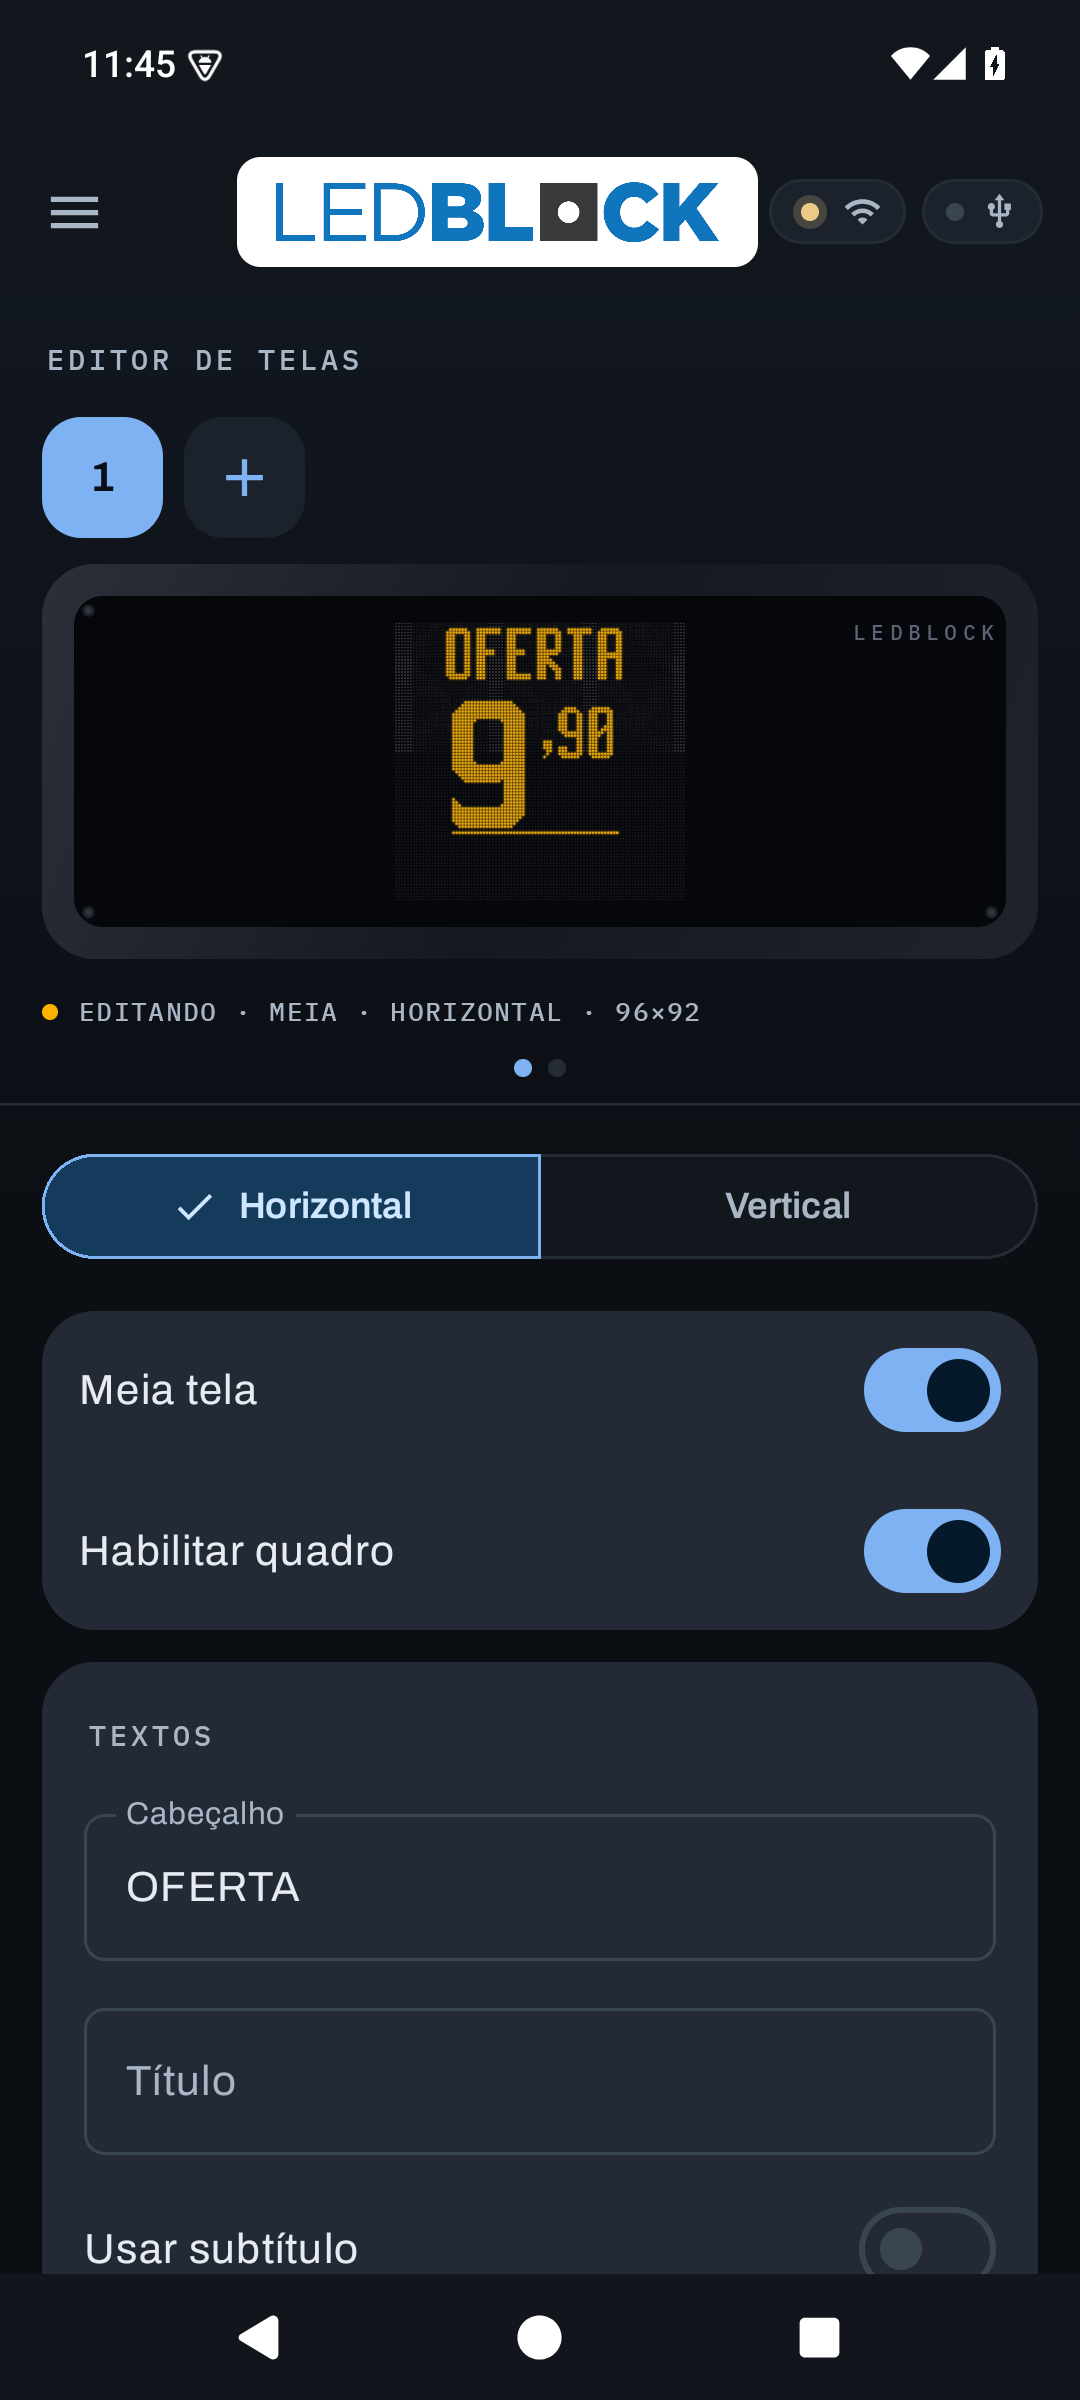
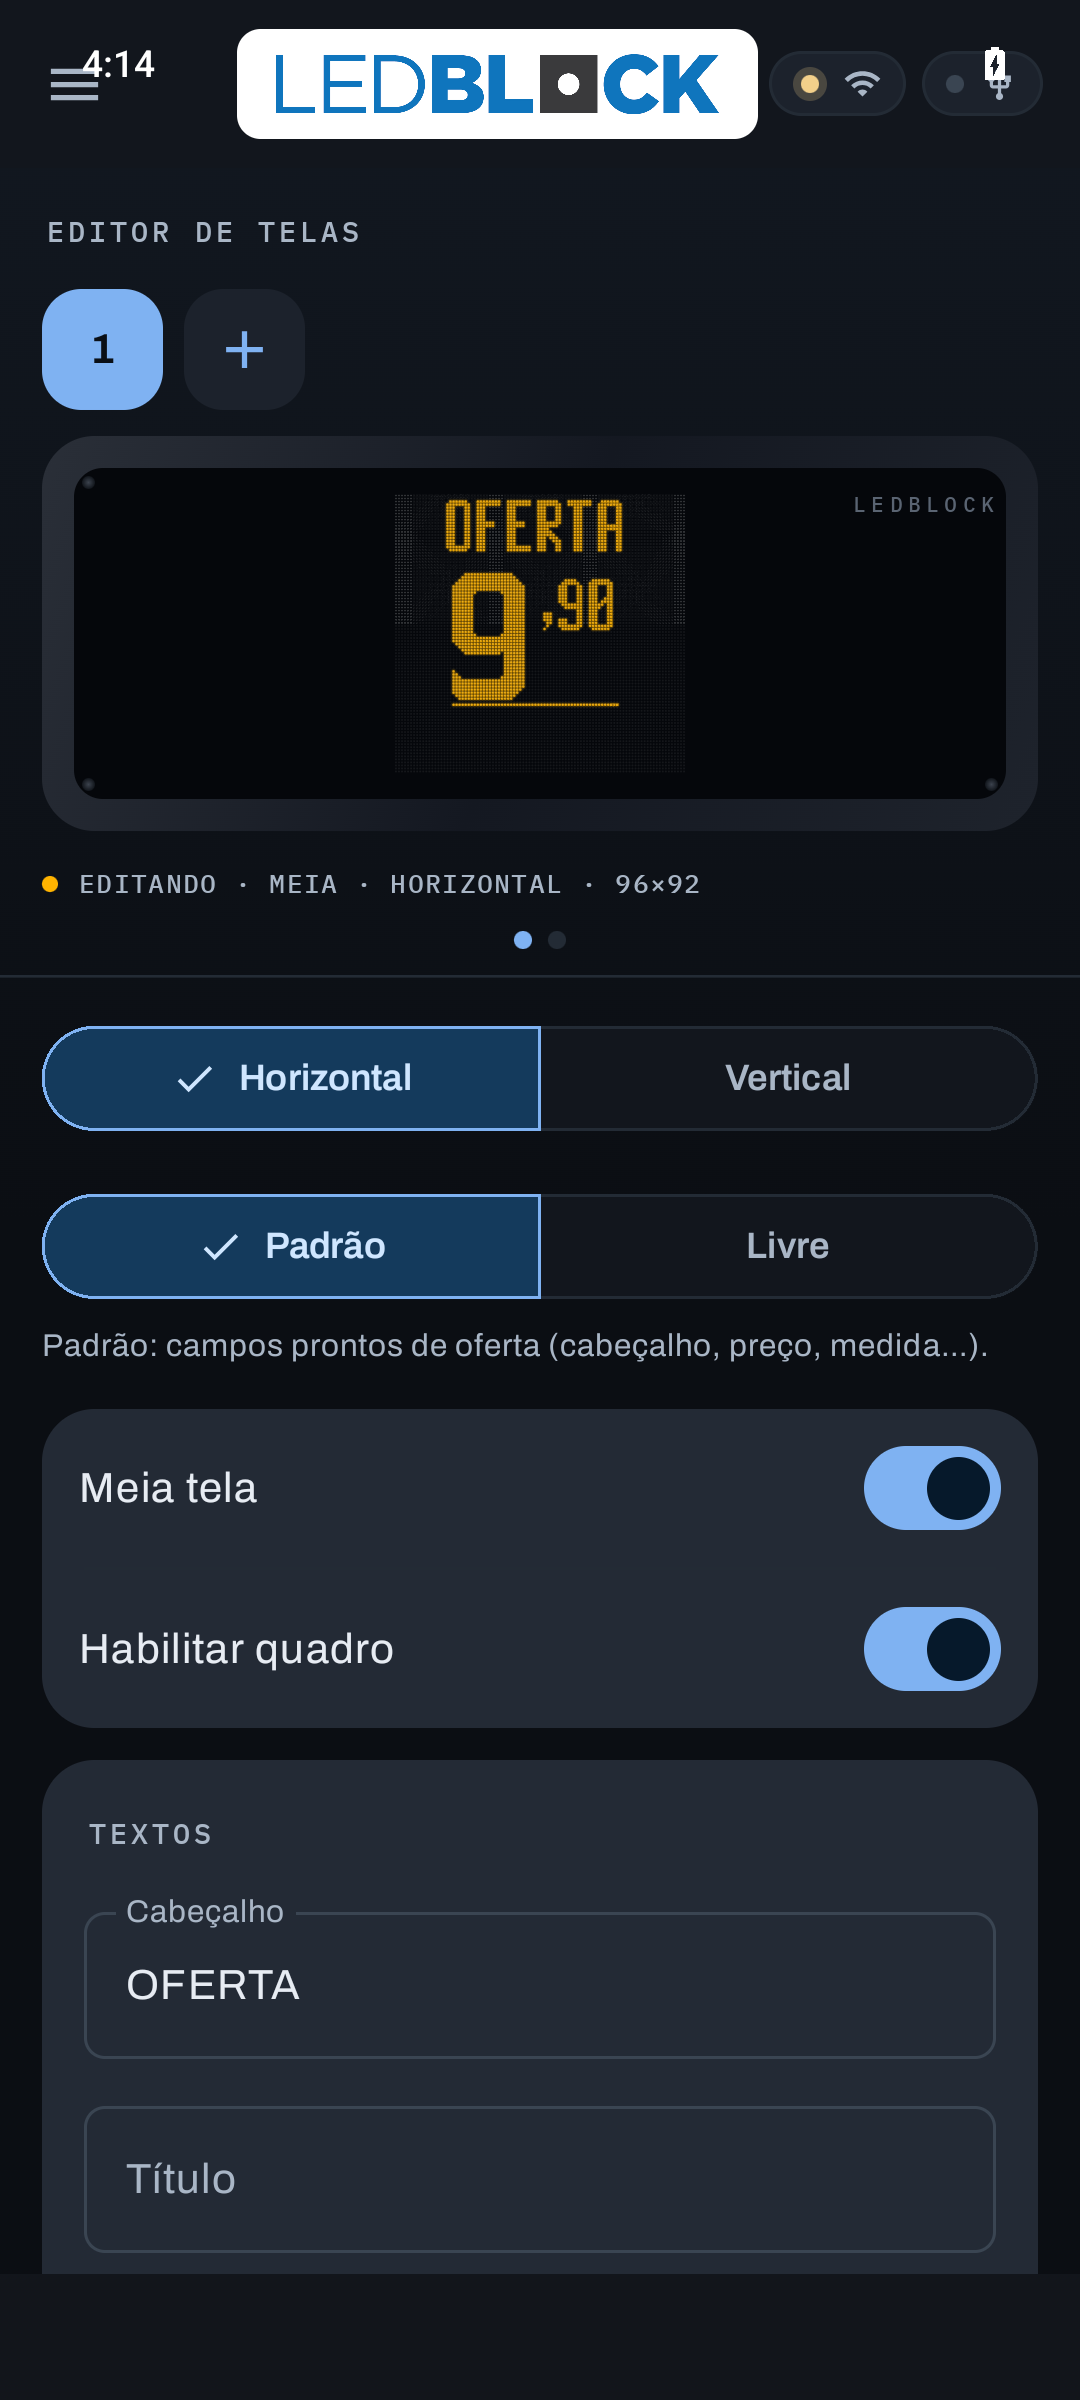
feat: editor com modo Padrao/Livre e 'Complementos' fundido
Dois itens do retorno do cliente. APK v0.32.0 (versionCode 34).

- Modo Padrao/Livre: seletor no topo do conteudo troca a tela entre Oferta
  (Padrao) e Mensagem (Livre, texto solto com posicao/fonte). EditorViewModel.setMode
  converte o tipo preservando o nome.
- 'Complementos' fundido: Medida vai pro cartao Preco (e a unidade do preco);
  Auxiliar+Rodape viram um cartao 'Rodape' sempre visivel. Some o colapsavel.

diff --git a/app/src/main/java/br/com/painelofertas/ui/screens/EditarScreen.kt b/app/src/main/java/br/com/painelofertas/ui/screens/EditarScreen.kt
@@ -227,6 +227,20 @@ fun EditarScreen() {
         ) {
             SegChoice(listOf("Horizontal", "Vertical"), if (vm.portrait) 1 else 0, Modifier.fillMaxWidth()) { vm.portrait = it == 1 }
 
+            // Modo de composição: Padrão (oferta pronta) ou Livre (texto solto).
+            if (cur != null && cur !is FrameDraft.Raw) {
+                val livre = cur is FrameDraft.Msg
+                Column(verticalArrangement = Arrangement.spacedBy(6.dp)) {
+                    SegChoice(listOf("Padrão", "Livre"), if (livre) 1 else 0, Modifier.fillMaxWidth()) { vm.setMode(it == 1) }
+                    Text(
+                        if (livre) "Livre: escreva o texto onde quiser — posição e fonte por linha."
+                        else "Padrão: campos prontos de oferta (cabeçalho, preço, medida…).",
+                        style = MaterialTheme.typography.bodySmall,
+                        color = MaterialTheme.colorScheme.onSurfaceVariant,
+                    )
+                }
+            }
+
             when (val d = cur) {
                 is FrameDraft.Msg -> MsgForm(d) { vm.replaceSel(it) }
                 is FrameDraft.Ofe -> OfeForm(d) { vm.replaceSel(it) }
@@ -662,7 +676,6 @@ private fun LineCard(linha: LineDraft, onChange: (LineDraft) -> Unit, onRemove: 
 private fun OfeForm(draft: FrameDraft.Ofe, onChange: (FrameDraft.Ofe) -> Unit) {
     val s = draft.spec
     fun set(ns: OfertaSpec) = onChange(draft.copy(spec = ns))
-    var maisCampos by remember { mutableStateOf(s.medida.isNotBlank() || s.auxiliar.isNotBlank() || s.rodape.isNotBlank()) }
 
     Column(verticalArrangement = Arrangement.spacedBy(12.dp)) {
 
@@ -722,30 +735,17 @@ private fun OfeForm(draft: FrameDraft.Ofe, onChange: (FrameDraft.Ofe) -> Unit) {
                     FilterChip(s.centavos3Casas, { set(s.copy(centavos3Casas = !s.centavos3Casas)) }, { Text("3 casas") })
                     FilterChip(s.centavosDesligados, { set(s.copy(centavosDesligados = !s.centavosDesligados)) }, { Text("Sem centavos") })
                 }
+                // Medida é a unidade do preço → mora aqui (antes ficava em "Complementos").
+                OutlinedTextField(s.medida, { set(s.copy(medida = it)) }, label = { Text("Medida (ex.: O KILO)") }, singleLine = true, modifier = Modifier.fillMaxWidth())
             }
         }
 
-        // === MAIS CAMPOS (medida / auxiliar / rodapé) — colapsável ===
+        // === RODAPÉ (textos auxiliares) ===
         Card {
-            Column(Modifier.padding(16.dp).animateContentSize(), verticalArrangement = Arrangement.spacedBy(10.dp)) {
-                Row(
-                    Modifier.fillMaxWidth().clickable { maisCampos = !maisCampos },
-                    verticalAlignment = Alignment.CenterVertically,
-                    horizontalArrangement = Arrangement.SpaceBetween,
-                ) {
-                    SectionLabel("Complementos")
-                    val rot by animateFloatAsState(if (maisCampos) 180f else 0f, label = "expand")
-                    Icon(Icons.Filled.KeyboardArrowDown, if (maisCampos) "Recolher" else "Expandir", Modifier.graphicsLayer { rotationZ = rot })
-                }
-                androidx.compose.animation.AnimatedVisibility(maisCampos) {
-                    Column(verticalArrangement = Arrangement.spacedBy(10.dp)) {
-                        Row(horizontalArrangement = Arrangement.spacedBy(10.dp)) {
-                            OutlinedTextField(s.medida, { set(s.copy(medida = it)) }, label = { Text("Medida") }, singleLine = true, modifier = Modifier.weight(1f))
-                            OutlinedTextField(s.auxiliar, { set(s.copy(auxiliar = it)) }, label = { Text("Auxiliar") }, singleLine = true, modifier = Modifier.weight(1f))
-                        }
-                        OutlinedTextField(s.rodape, { set(s.copy(rodape = it)) }, label = { Text("Rodapé") }, singleLine = true, modifier = Modifier.fillMaxWidth())
-                    }
-                }
+            Column(Modifier.padding(16.dp), verticalArrangement = Arrangement.spacedBy(10.dp)) {
+                SectionLabel("Rodapé")
+                OutlinedTextField(s.auxiliar, { set(s.copy(auxiliar = it)) }, label = { Text("Auxiliar") }, singleLine = true, modifier = Modifier.fillMaxWidth())
+                OutlinedTextField(s.rodape, { set(s.copy(rodape = it)) }, label = { Text("Rodapé (ex.: OFERTA VÁLIDA HOJE)") }, singleLine = true, modifier = Modifier.fillMaxWidth())
             }
         }
     }

diff --git a/app/src/main/java/br/com/painelofertas/ui/vm/EditorViewModel.kt b/app/src/main/java/br/com/painelofertas/ui/vm/EditorViewModel.kt
@@ -33,6 +33,20 @@ class EditorViewModel : ViewModel() {
 
     fun replaceSel(d: FrameDraft) { if (sel in frames.indices) frames[sel] = d }
 
+    /**
+     * Alterna o modo da tela atual: **Padrão** (Oferta estruturada) ou **Livre**
+     * (Mensagem — texto solto com posição/fonte). Converte o tipo do quadro,
+     * preservando o nome (o conteúdo é reiniciado, pois os modelos são diferentes).
+     */
+    fun setMode(livre: Boolean) {
+        val d = current ?: return
+        if (livre && d !is FrameDraft.Msg) {
+            frames[sel] = FrameDraft.Msg(name = d.name, halfScreen = d.halfScreen, durationIndex = d.durationIndex)
+        } else if (!livre && d !is FrameDraft.Ofe) {
+            frames[sel] = FrameDraft.Ofe(name = d.name, halfScreen = d.halfScreen)
+        }
+    }
+
     fun addMsg(name: String = "") { frames.add(FrameDraft.Msg(name = name)); selected = frames.lastIndex }
     fun addOfe(name: String = "") { frames.add(FrameDraft.Ofe(name = name)); selected = frames.lastIndex }
 

diff --git a/CHANGELOG.md b/CHANGELOG.md
@@ -8,6 +8,20 @@ Todas as mudanças relevantes do projeto. Formato baseado em
 
 ---
 
+## [0.32.0] — 2026-08-29 · `versionCode 34`
+
+### Adicionado
+- **Modo Padrão / Livre** no editor: um seletor no topo do conteúdo troca a tela
+  entre **Padrão** (oferta estruturada) e **Livre** (texto solto com posição/fonte
+  por linha) — reaproveitando os tipos Oferta/Mensagem num só lugar
+
+### Alterado
+- **"Complementos" fundido**: a **Medida** foi para dentro do cartão **Preço** (é a
+  unidade do preço), e **Auxiliar + Rodapé** viraram um cartão **Rodapé** sempre
+  visível. Some o cartão colapsável confuso
+
+---
+
 ## [0.31.0] — 2026-08-29 · `versionCode 33`
 
 ### Corrigido
